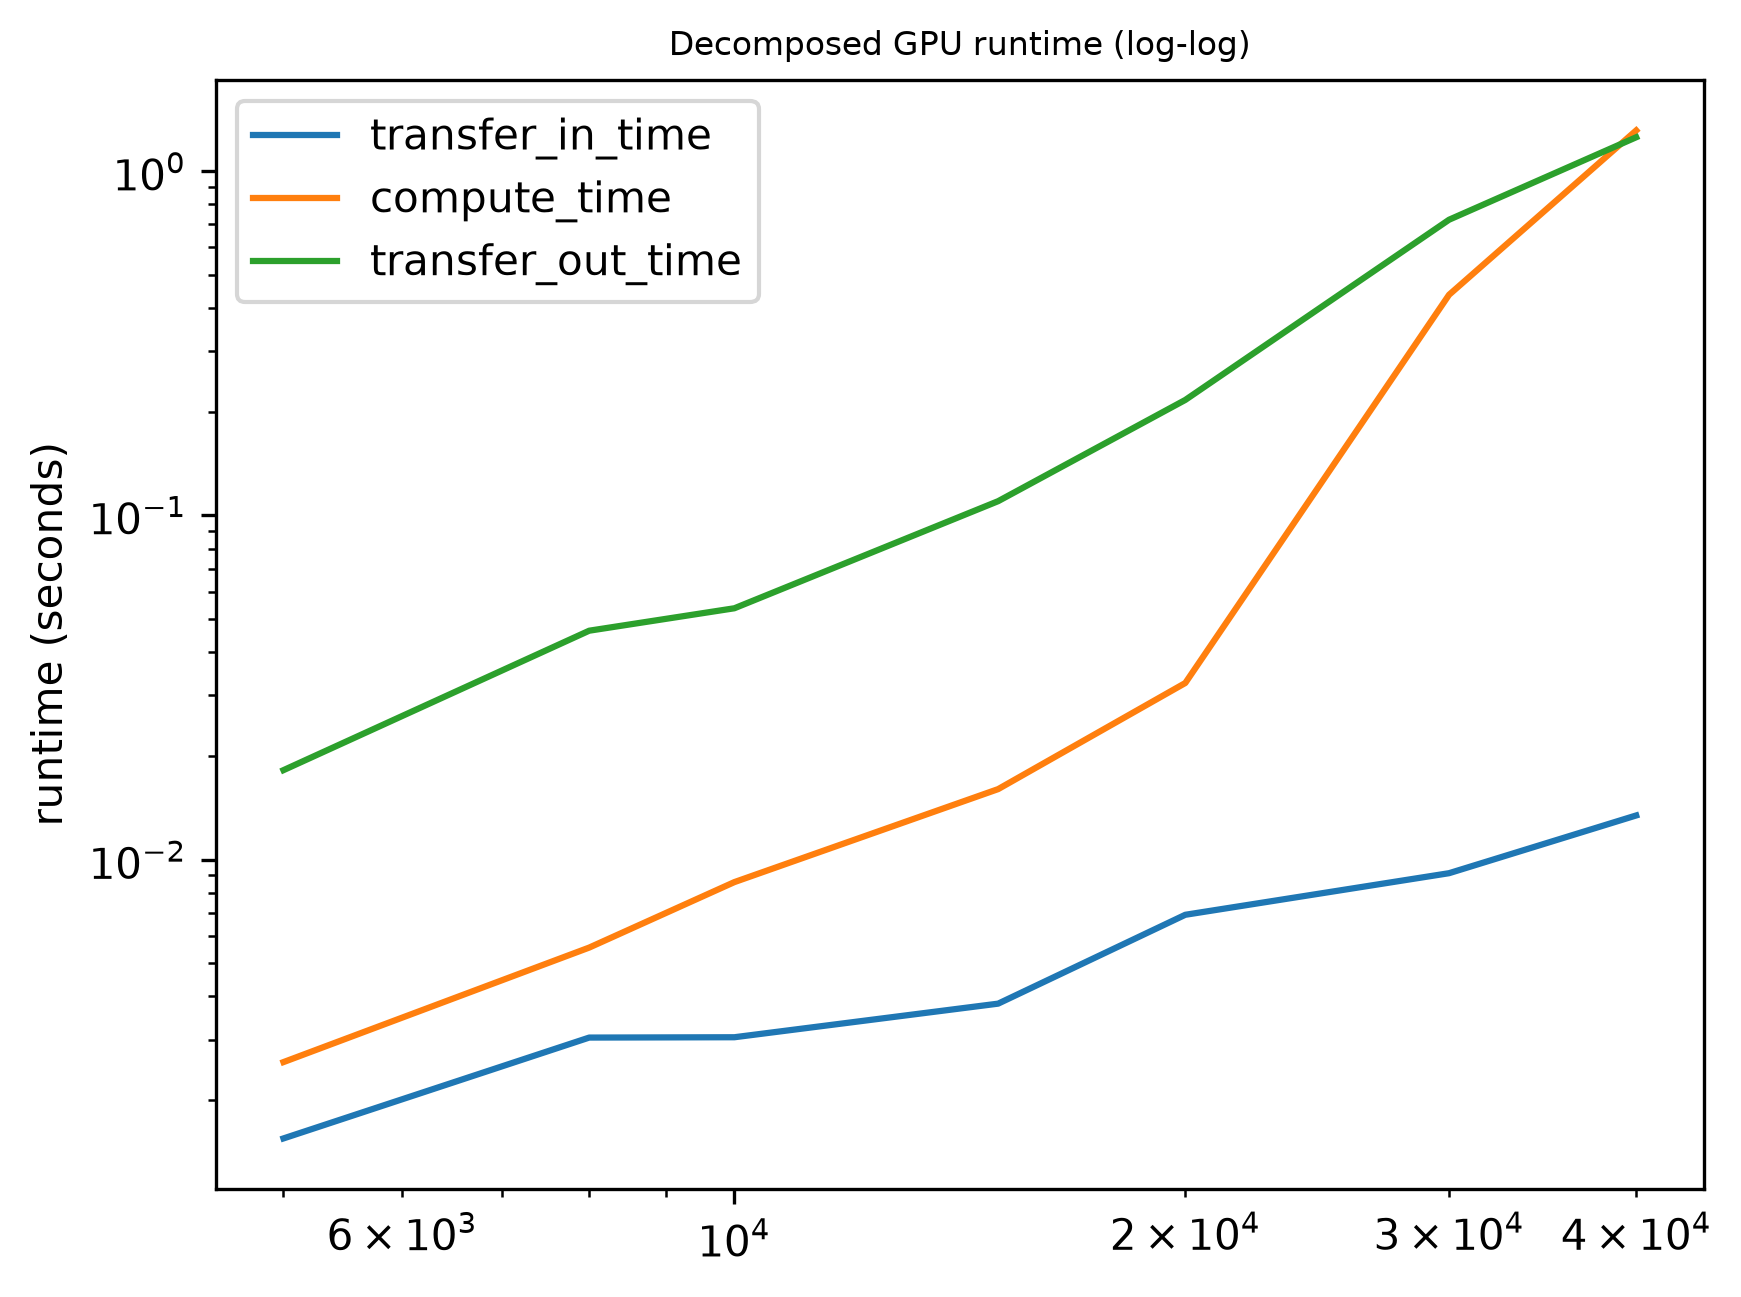
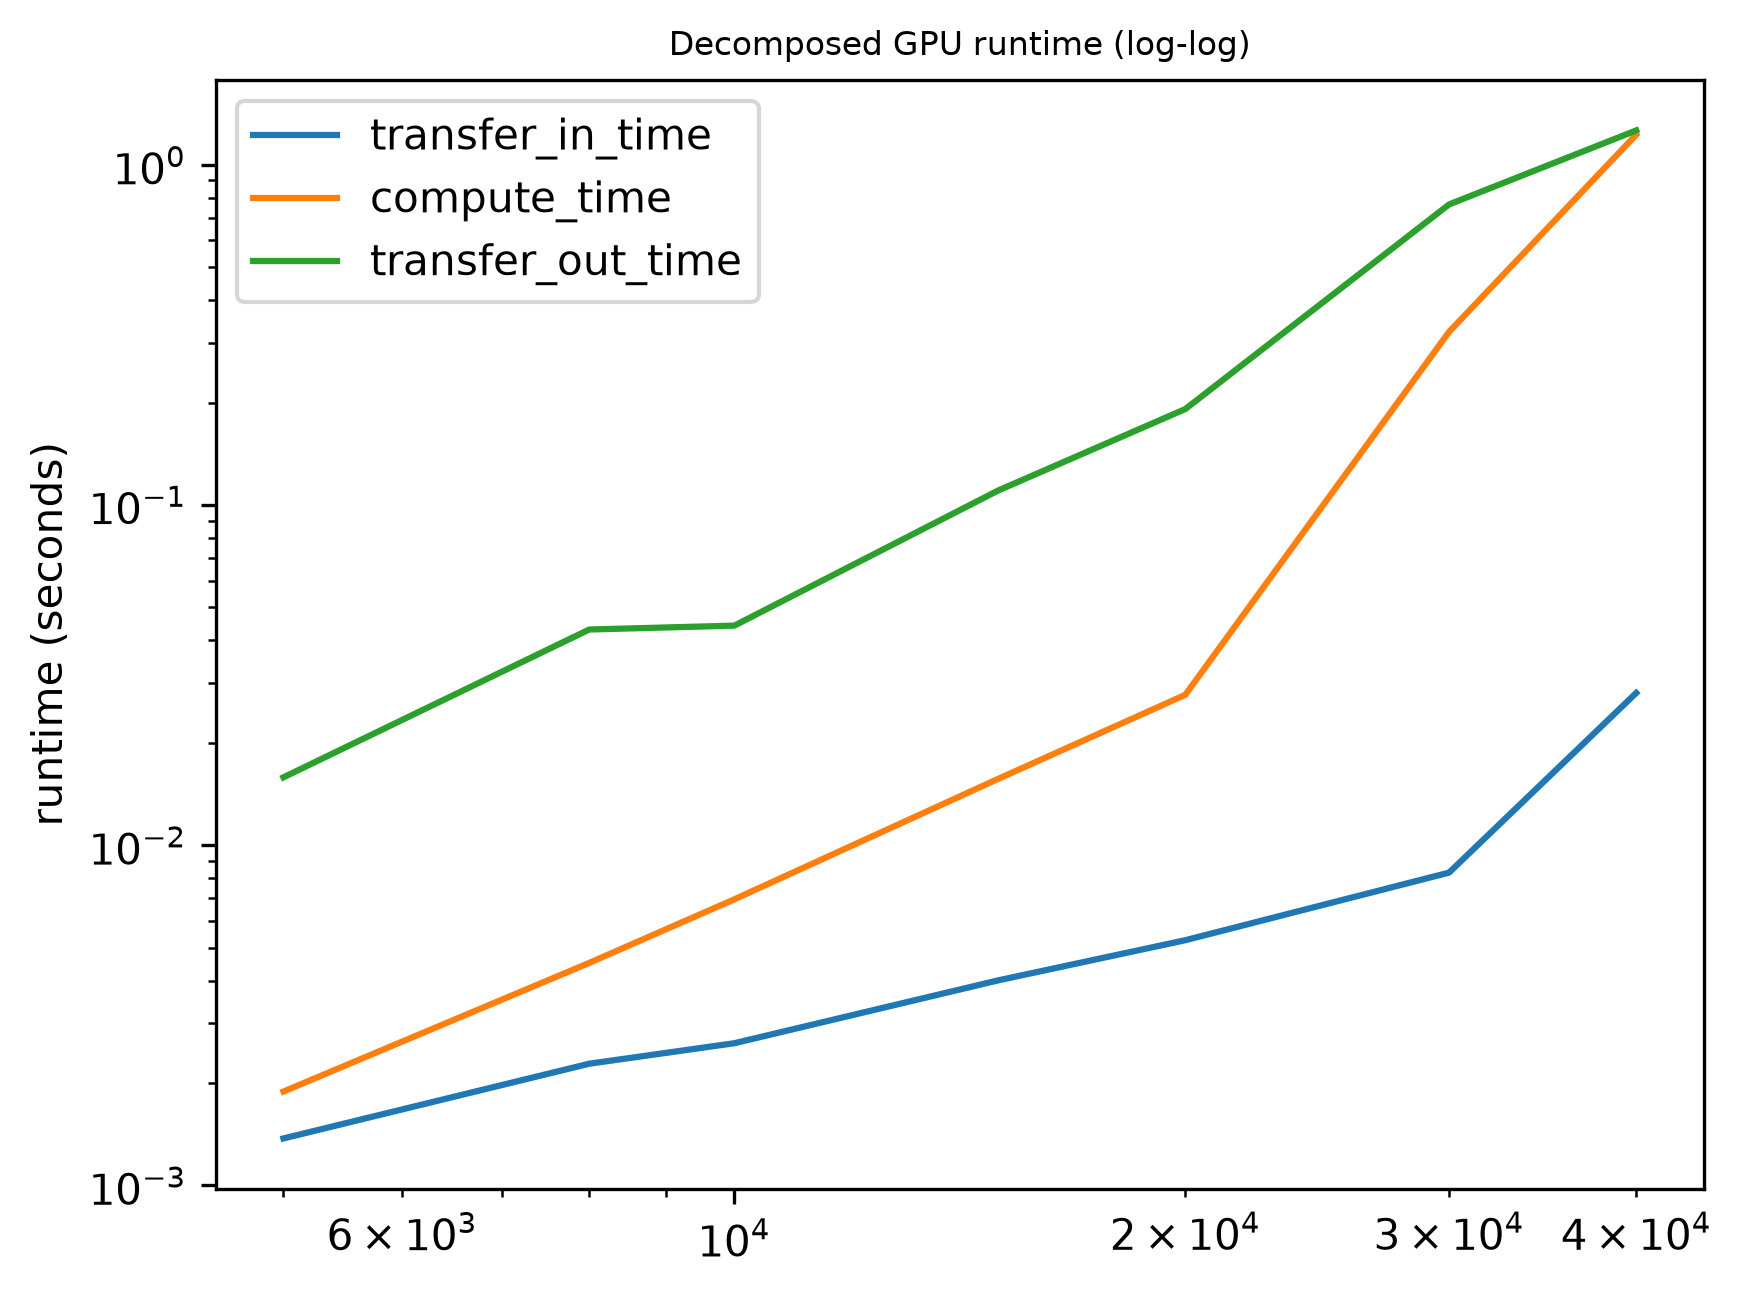
changes to ld_torch_gpu.py to compute the LD matrix on GPU and copy it back to CPU asynchronously.

diff --git a/src/ld_torch_gpu.py b/src/ld_torch_gpu.py
@@ -28,6 +28,7 @@ def time_decomposed(G):
 
     with torch.inference_mode():
         G = torch.tensor(G, dtype=torch.float32)
+        ld_cpu = torch.empty((G.shape[0], G.shape[0]), dtype=torch.float32, device = 'cpu', pin_memory = True)
 
         events = {
             "start_in": torch.cuda.Event(enable_timing=True),
@@ -47,12 +48,13 @@ def time_decomposed(G):
         std = torch.std(g_GPU, dim = 1, correction = 1)
         g_std = (g_GPU - means[:, None])/std[:, None]
         
-        ld_matrix = g_std @ g_std.T/(g_GPU.shape[1]-1)
+        ld_matrix = g_std @ g_std.T
+        ld_matrix /= (g_GPU.shape[1]-1)
 
         events["end_compute"].record(stream=None)
 
         events["start_exit"].record(stream=None)
-        ld_matrix = ld_matrix.cpu()
+        ld_cpu.copy_(ld_matrix, non_blocking=True)
         events["end_exit"].record(stream=None)
         events["end_exit"].synchronize()
 
